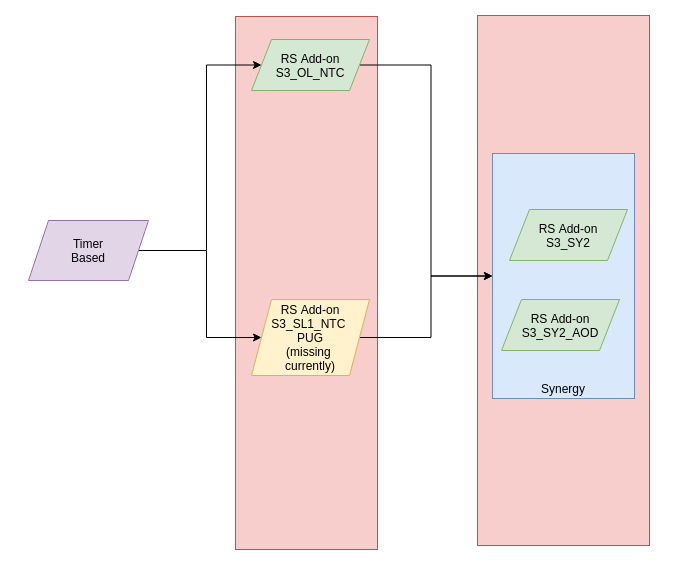
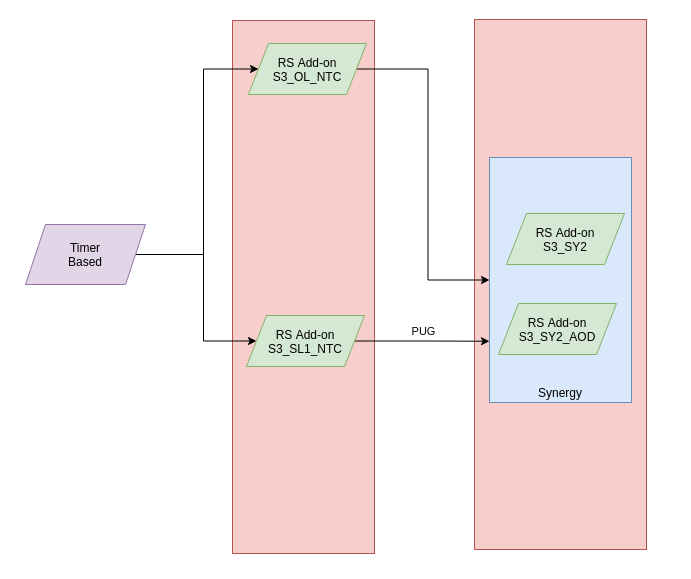
RS-696: Adding SL1 NTC to S3 Overview

Changed region(s): [[0.0311, 0.0, 0.9644, 0.9894]]

diff --git a/README.md b/README.md
@@ -40,6 +40,7 @@ The following individual NRT processing chains are available:
 
 The following individual NTC/STC processing chains are available:
 * [S3 OL1 NTC](./s3-ol1-ntc/doc/ReleaseNote.md)
+* [S3 SL1 NTC](./s3-sl1-ntc/doc/ReleaseNote.md)
 * [S3 SY2 NTC](./s3-sy2-ntc/doc/ReleaseNote.md)
 * [S3 SY2_AOD NTC](./s3-sy2-aod-ntc/doc/ReleaseNote.md)
 
@@ -165,6 +166,13 @@ ansible-playbook deploy-rs-addon.yaml \
     -i inventory/mycluster/hosts.ini \
     -e rs_addon_location=https://artifactory.coprs.esa-copernicus.eu/artifactory/rs-zip-private/rs-addons/s3/RS_ADDON_S3-OL1-NTC_<VERSION>.zip \
     -e stream_name=S3_OL1_NTC
+```
+
+```
+ansible-playbook deploy-rs-addon.yaml \
+    -i inventory/mycluster/hosts.ini \
+    -e rs_addon_location=https://artifactory.coprs.esa-copernicus.eu/artifactory/rs-zip-private/rs-addons/s3/RS_ADDON_S3-SL1-NTC_<VERSION>.zip \
+    -e stream_name=S3_SL1_NTC
 ```
 
 ```
